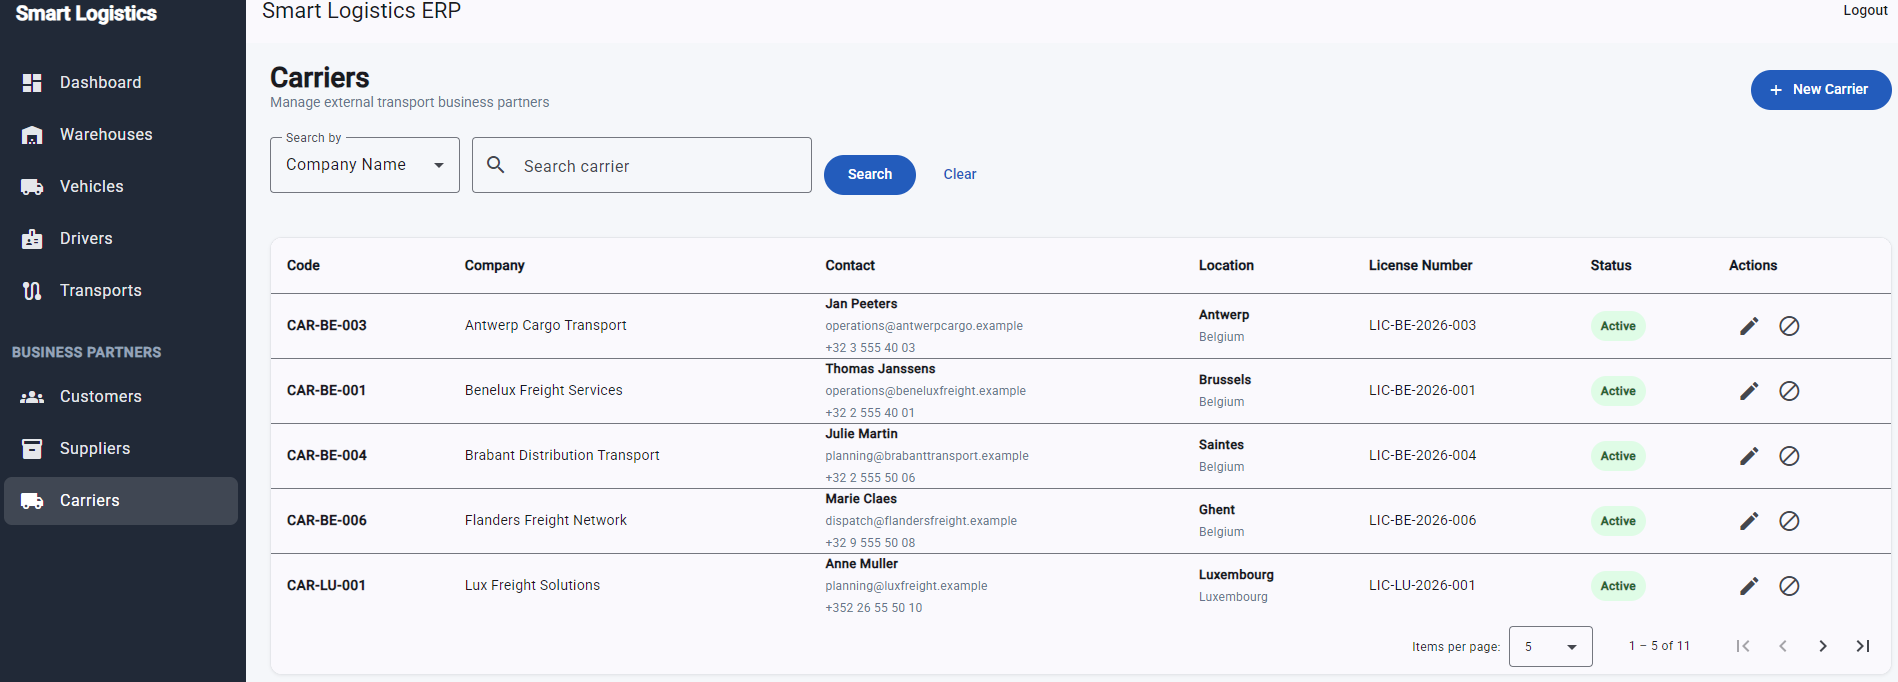
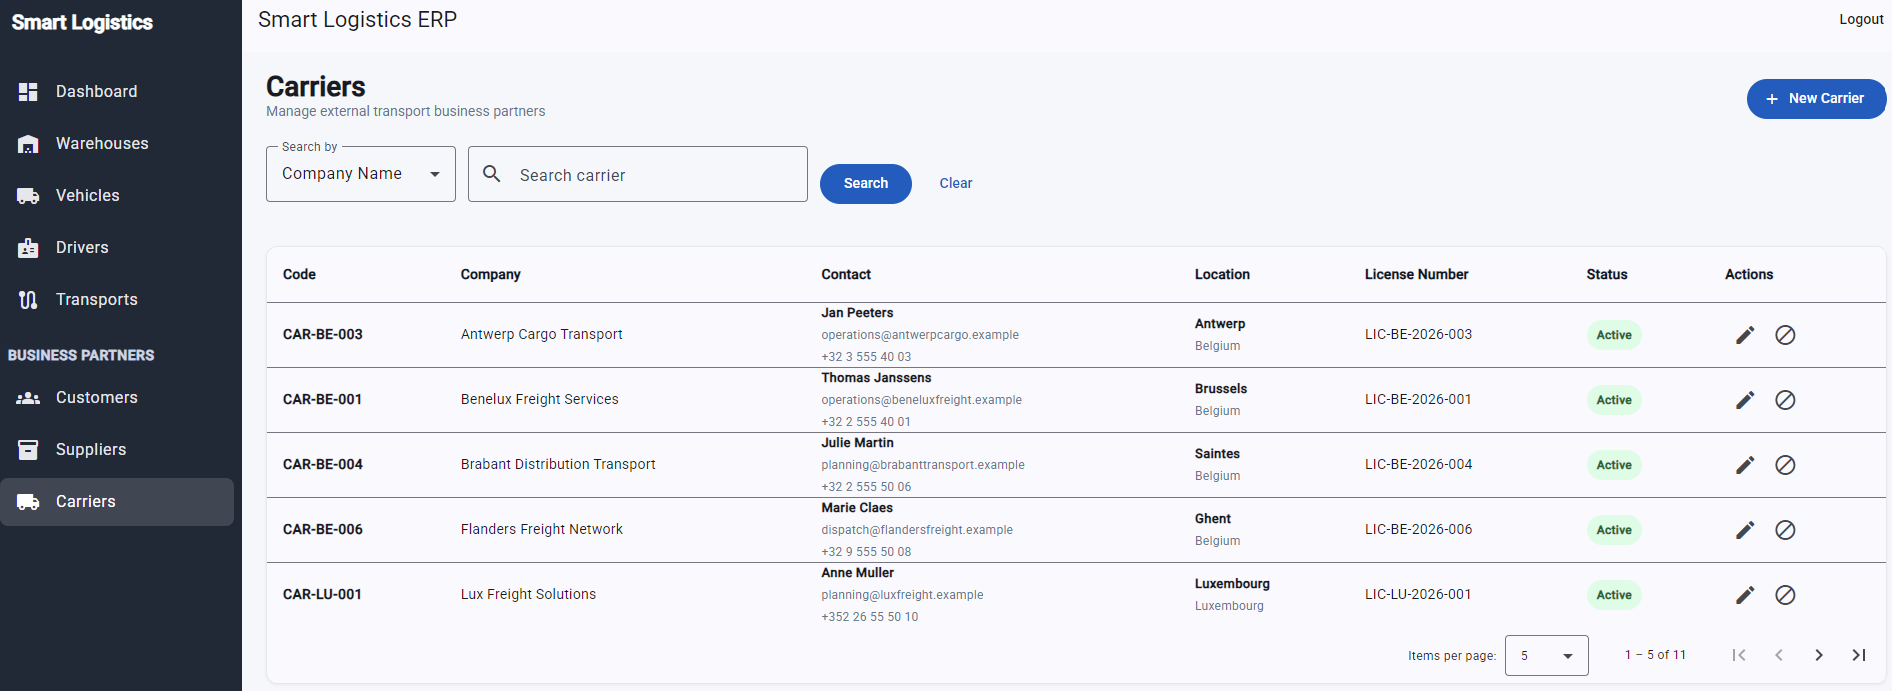
feat: update pictures

diff --git a/frontend/src/app/layout/sidebar/sidebar.scss b/frontend/src/app/layout/sidebar/sidebar.scss
@@ -60,3 +60,13 @@ a[mat-list-item].active span {
   text-transform: uppercase;
   letter-spacing: 0.05em;
 }
+.business-partners-title {
+  margin: 22px 16px 8px;
+
+  font-size: 14px;
+  font-weight: 700;
+  letter-spacing: 0.5px;
+
+  color: #cbd5e1;
+  text-transform: uppercase;
+}

diff --git a/frontend/src/app/layout/sidebar/sidebar.html b/frontend/src/app/layout/sidebar/sidebar.html
@@ -79,7 +79,7 @@
 
     <!-- BUSINESS PARTNERS -->
 
-    <div class="sidebar-section-title">
+    <div class="business-partners-title">
       Business Partners
     </div>
 
@@ -126,5 +126,6 @@
     </a>
 
   </mat-nav-list>
+
 
 </aside>
